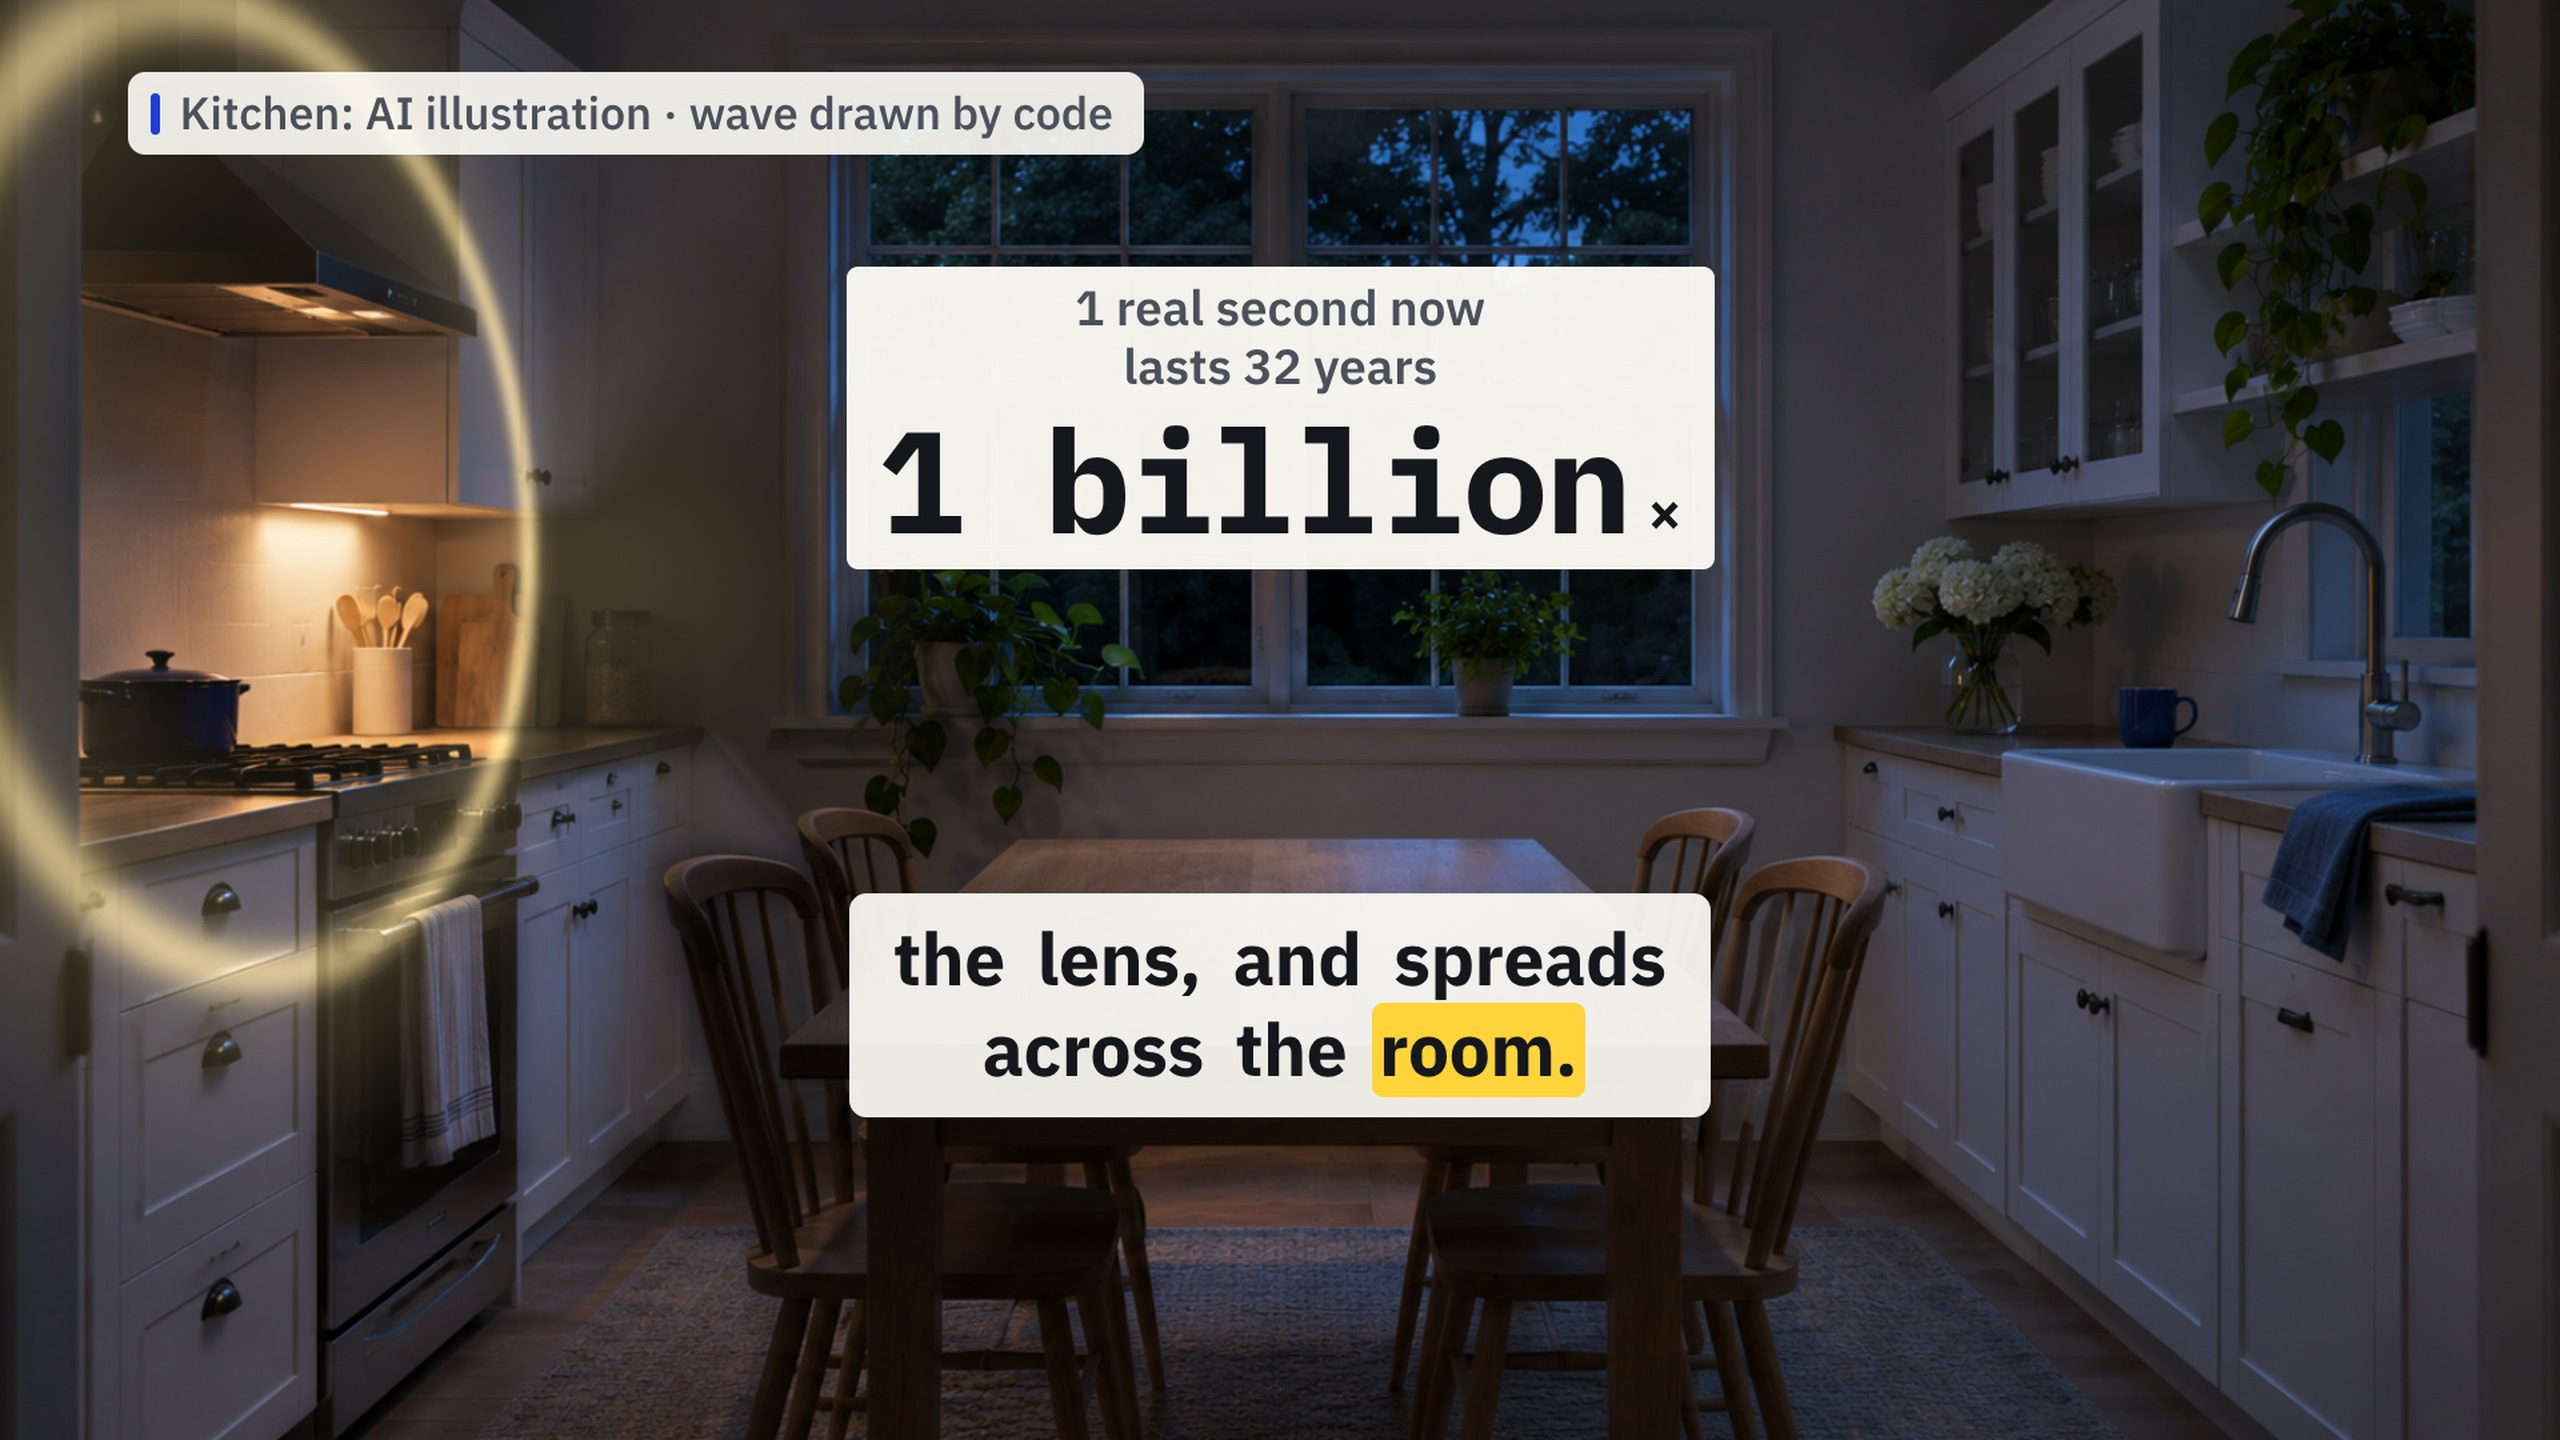
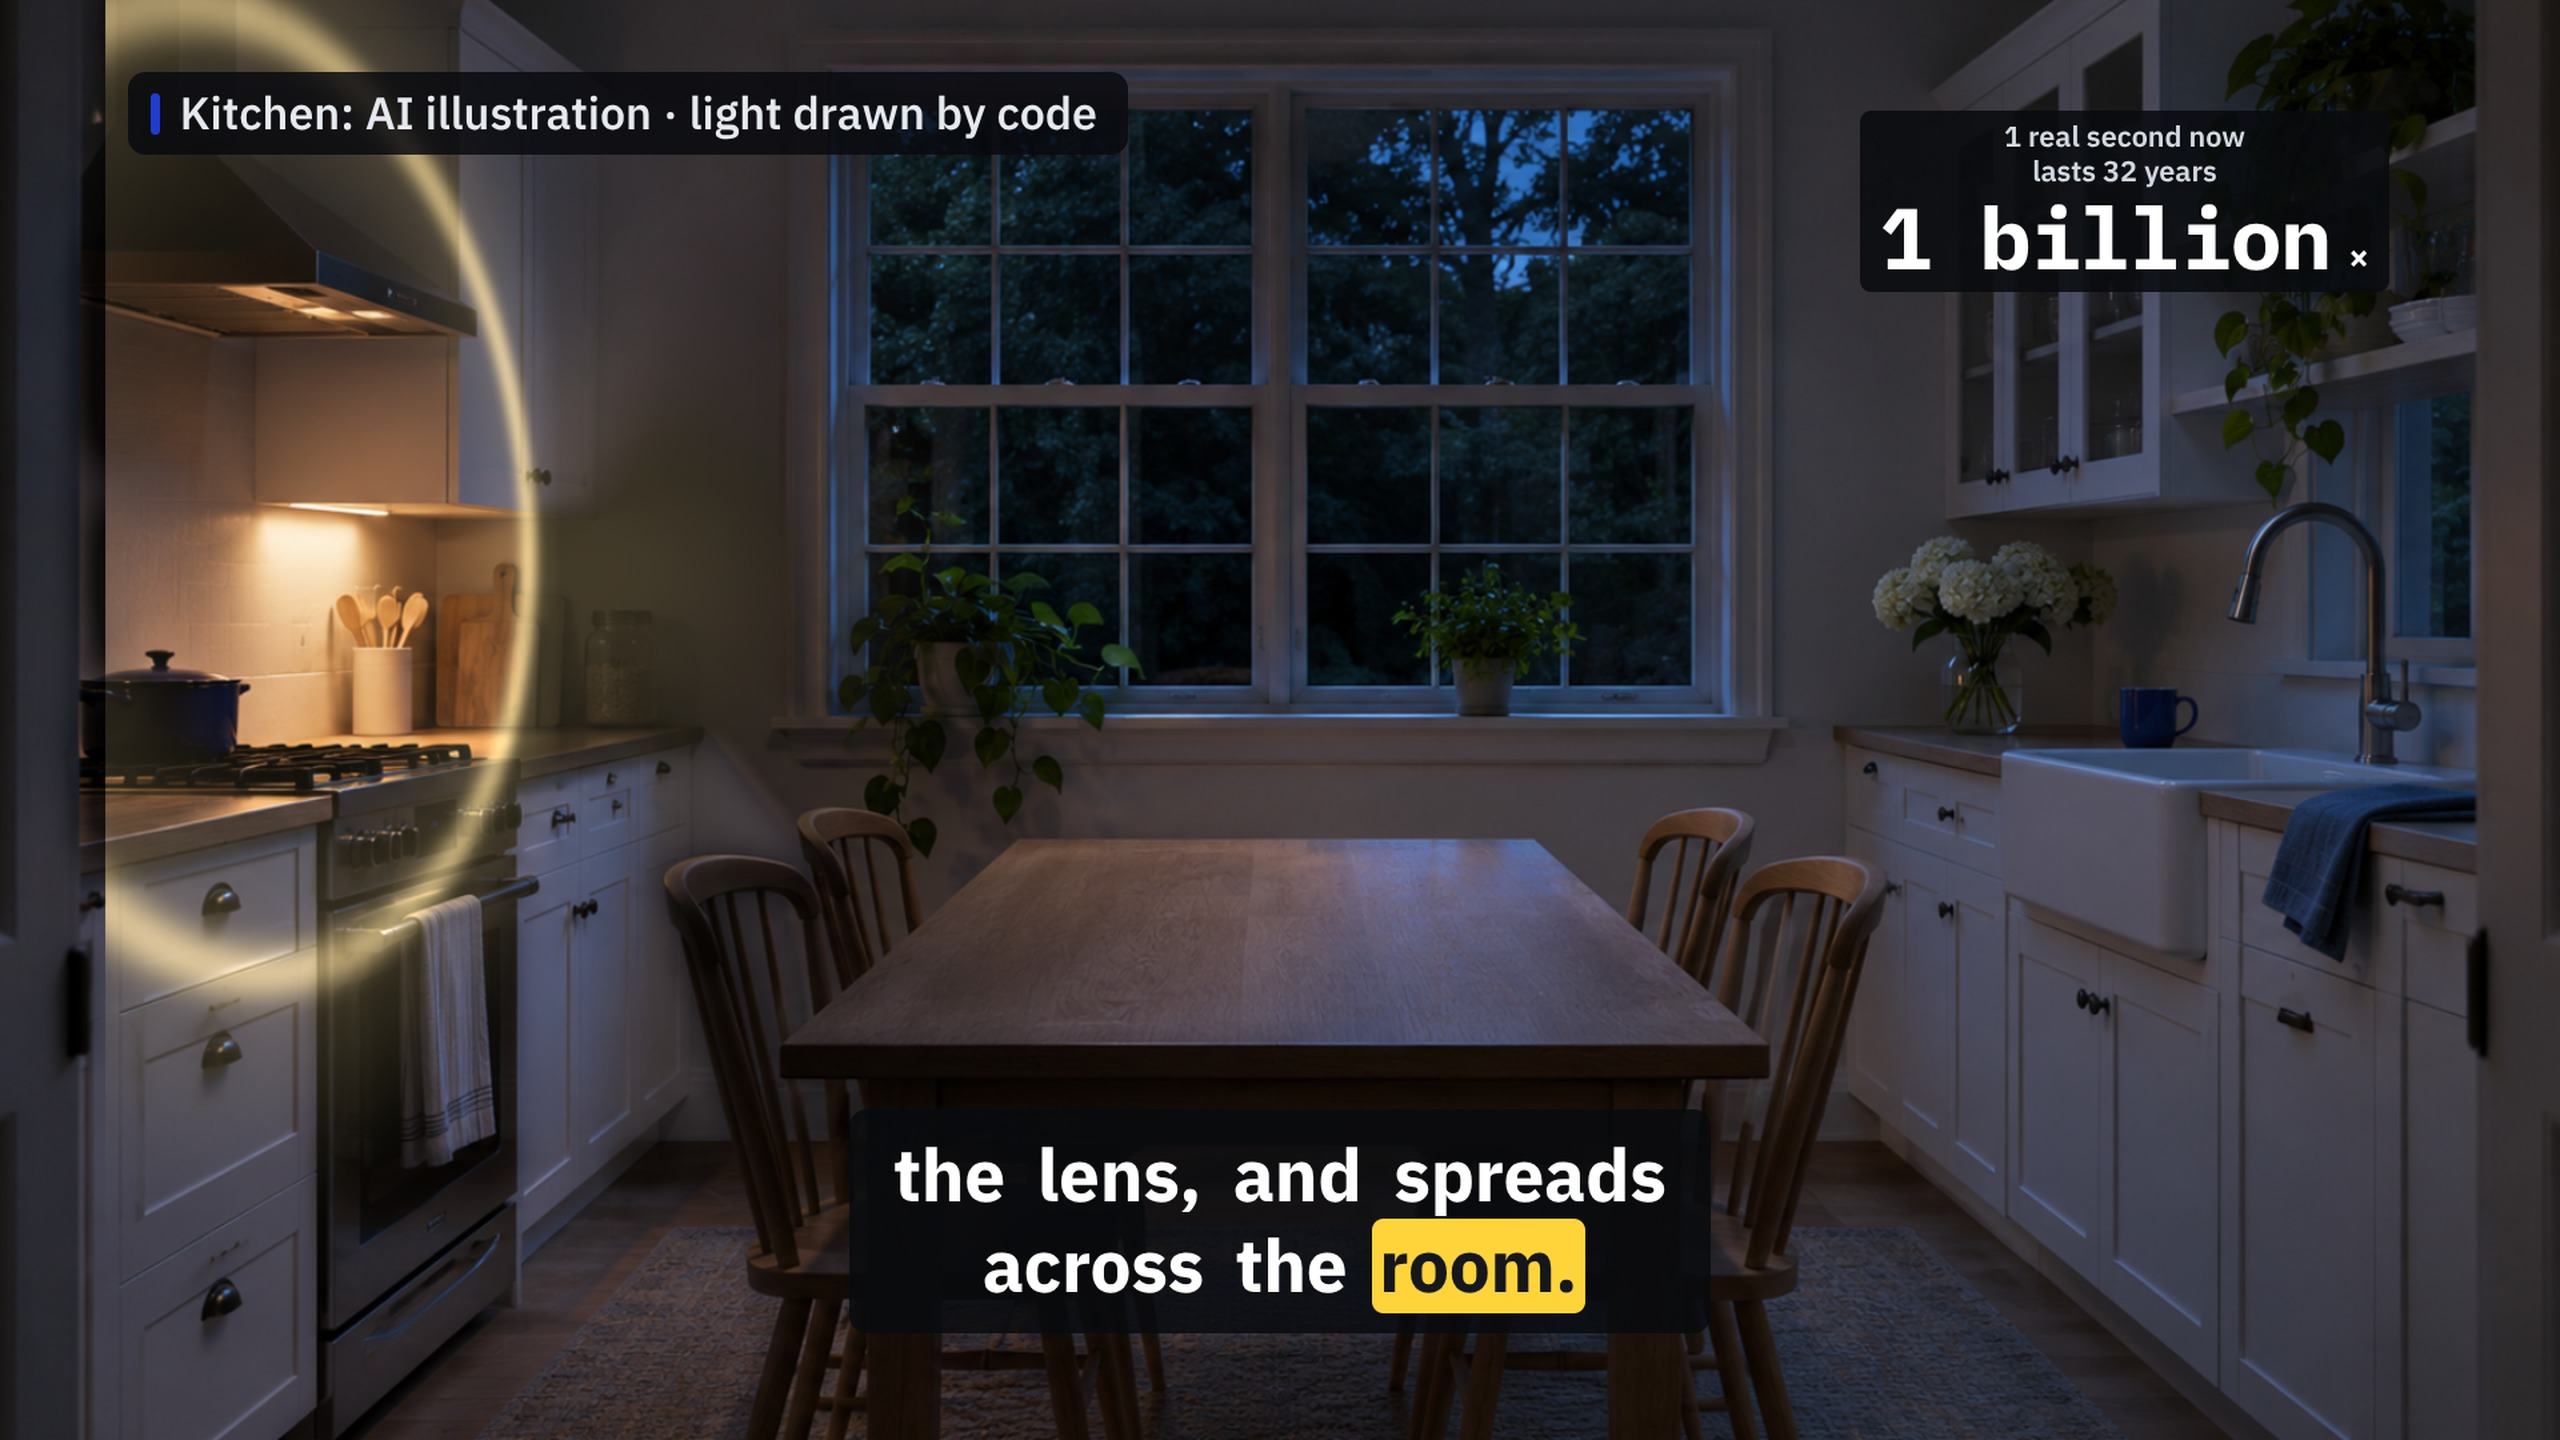
Night plate: light tag, dark pills, smaller counter at upper right, front masked off the door frame; Part 7 on plate 09
Claude-Session: https://claude.ai/code/session_0192s8Y3nHgGCCsvNARxNLPn

diff --git a/films/channels/physics/set/plates.js b/films/channels/physics/set/plates.js
@@ -34,6 +34,7 @@ const nightGL = (it, off, orig) => {
     hit((room.z0 - P[2]) / dz, (x, y, z) => x > room.x0 && x < room.x1 && y > 0 && y < room.h);
     if (room.table) { const T = room.table; hit((T.y - P[1]) / dy, (x, y, z) => x > T.x0 && x < T.x1 && z > T.z0 && z < T.z1); }
     const x = P[0] + dx * best, y = P[1] + dy * best, z = P[2] + dz * best; dist[j * mw + i] = Math.hypot(x - L[0], y - L[1], z - L[2]);
+    { const px = (i + 0.5) * 2, py = (j + 0.5) * 2; for (const r of n.fg || []) if (px >= r[0] && px <= r[1] && py >= r[2] && py <= r[3]) dist[j * mw + i] = 1e4; }   // near-foreground pixels (a door frame) are never reached by the front
   }
   const mkTex = (unit, fn) => { const t = gl.createTexture(); gl.activeTexture(gl.TEXTURE0 + unit); gl.bindTexture(gl.TEXTURE_2D, t); fn(); gl.texParameteri(gl.TEXTURE_2D, gl.TEXTURE_MIN_FILTER, gl.LINEAR); gl.texParameteri(gl.TEXTURE_2D, gl.TEXTURE_MAG_FILTER, gl.LINEAR); gl.texParameteri(gl.TEXTURE_2D, gl.TEXTURE_WRAP_S, gl.CLAMP_TO_EDGE); gl.texParameteri(gl.TEXTURE_2D, gl.TEXTURE_WRAP_T, gl.CLAMP_TO_EDGE); return t; };
   mkTex(0, () => gl.texImage2D(gl.TEXTURE_2D, 0, gl.RGBA, gl.RGBA, gl.UNSIGNED_BYTE, off)); mkTex(1, () => gl.texImage2D(gl.TEXTURE_2D, 0, gl.RGBA, gl.RGBA, gl.UNSIGNED_BYTE, orig));

diff --git a/films/channels/physics/lf01/build.py b/films/channels/physics/lf01/build.py
@@ -243,7 +243,7 @@ for (t0, k0), (t1, k1) in zip(KEYS, KEYS[1:]):
         LBL.append([R(t1 + 0.9), f"1 real second now lasts {LABEL_TXT[round(k1, 3)]}"])
 CAM.sort(key=lambda k: k["t"])
 SPINE = [{"t0": 0.45, "t1": R(cut("tease") - 0.3) if PART else R(cut("takeaway") + 12.0), "label": "slow-motion"}]
-SPINE_AT = [[-1e9, {"16x9": [0.74, 0.2], "9x16": [0.5, 0.83]} if PART == 1 else {"16x9": [0.8, 0.3], "9x16": [0.5, 0.29]} if PART == 3 else {"16x9": [0.2, 0.3], "9x16": [0.5, 0.245]} if PART == 5 else [0.5, 0.29]]] if PART else [[-1e9, [0.3, 0.19]]]
+SPINE_AT = [[-1e9, {"16x9": [0.74, 0.2], "9x16": [0.5, 0.83]} if PART == 1 else {"16x9": [0.8, 0.3], "9x16": [0.5, 0.29]} if PART == 3 else {"16x9": [0.2, 0.3], "9x16": [0.5, 0.245]} if PART == 5 else {"16x9": [0.83, 0.14], "9x16": [0.72, 0.265]} if PART == 7 else [0.5, 0.29]]] if PART else [[-1e9, [0.3, 0.19]]]
 TITLES = ["Watch a wing, slowed ten times", "A fly's wings, then a splash", "A popcorn pop, in slow motion", "Watch sound cross a kitchen", "A bullet, through an apple, slowly",
           "Lightning, a million times slower", "Slow light until it crawls", "Slower than a snail: light"]
 if PART:
@@ -285,7 +285,7 @@ _p06 = {"id": "applep", "file": PLATE06, "file9": PLATE06, "push": 0.04, "parall
 PLATE09 = "../lf01/art/owner/plates/plate-09-night-lampoff-16x9.png"; PLATE09O = "../lf01/art/owner/plates/plate-09-night-16x9.png"
 _p09 = {"id": "night", "file": PLATE09, "file9": PLATE09, "push": 0.05, "parallax": 0, "fade": 0.4, "shift9": {"x": round((480 - 836) / _PX, 4), "ppm": _PX},
         "cam3": {"pos": [0, 1.06, 0], "target": [0, 1.001, -1], "fov": 50.4},
-        "night": {"orig": PLATE09O, "lamp": [-1.7, 1.44, -2.82], "room": {"x0": -1.73, "x1": 1.36, "z0": -3.8, "h": 2.6, "table": {"y": 0.78, "x0": -0.35, "x1": 0.33, "z0": -2.6, "z1": -1.3}}},
+        "night": {"orig": PLATE09O, "fg": [[0, 92, 0, 941], [1584, 1672, 0, 941]], "lamp": [-1.7, 1.44, -2.82], "room": {"x0": -1.73, "x1": 1.36, "z0": -3.8, "h": 2.6, "table": {"y": 0.78, "x0": -0.35, "x1": 0.33, "z0": -2.6, "z1": -1.3}}},
         "anchor": {"night": True}}
 PLATE01 = "../lf01/art/owner/plates/plate-01-wide-16x9.png"
 PLATE01_9 = "../lf01/art/owner/plates/plate-01-wide-9x16.png" if (HERE / "art/owner/plates/plate-01-wide-9x16.png").exists() else PLATE01
@@ -325,7 +325,7 @@ def _retag():
             t0, t1 = max(p["t0"], cur[0]), min(p["t1"], cur[1])
             if t1 <= t0: continue
             if t0 > cur[0] + 0.05: segs.append(dict(b, id="code-s" + str(len(segs)), t0=cur[0], t1=R(t0)))
-            what = {"feeder": "bird", "tapmug": "splash", "sink": "bubble", "applep": "bullet and apple"}.get(p["id"], "wave")
+            what = {"feeder": "bird", "tapmug": "splash", "sink": "bubble", "applep": "bullet and apple", "night": "light"}.get(p["id"], "wave")
             segs.append(dict(b, id="code-p" + str(len(segs)), text="Kitchen: AI illustration \u00b7 %s drawn by code" % what, t0=R(t0), t1=R(t1)))
             cur[0] = t1
         if cur[1] > cur[0] + 0.05: segs.append(dict(b, id="code-s" + str(len(segs)), t0=R(cur[0]), t1=b["t1"]))
